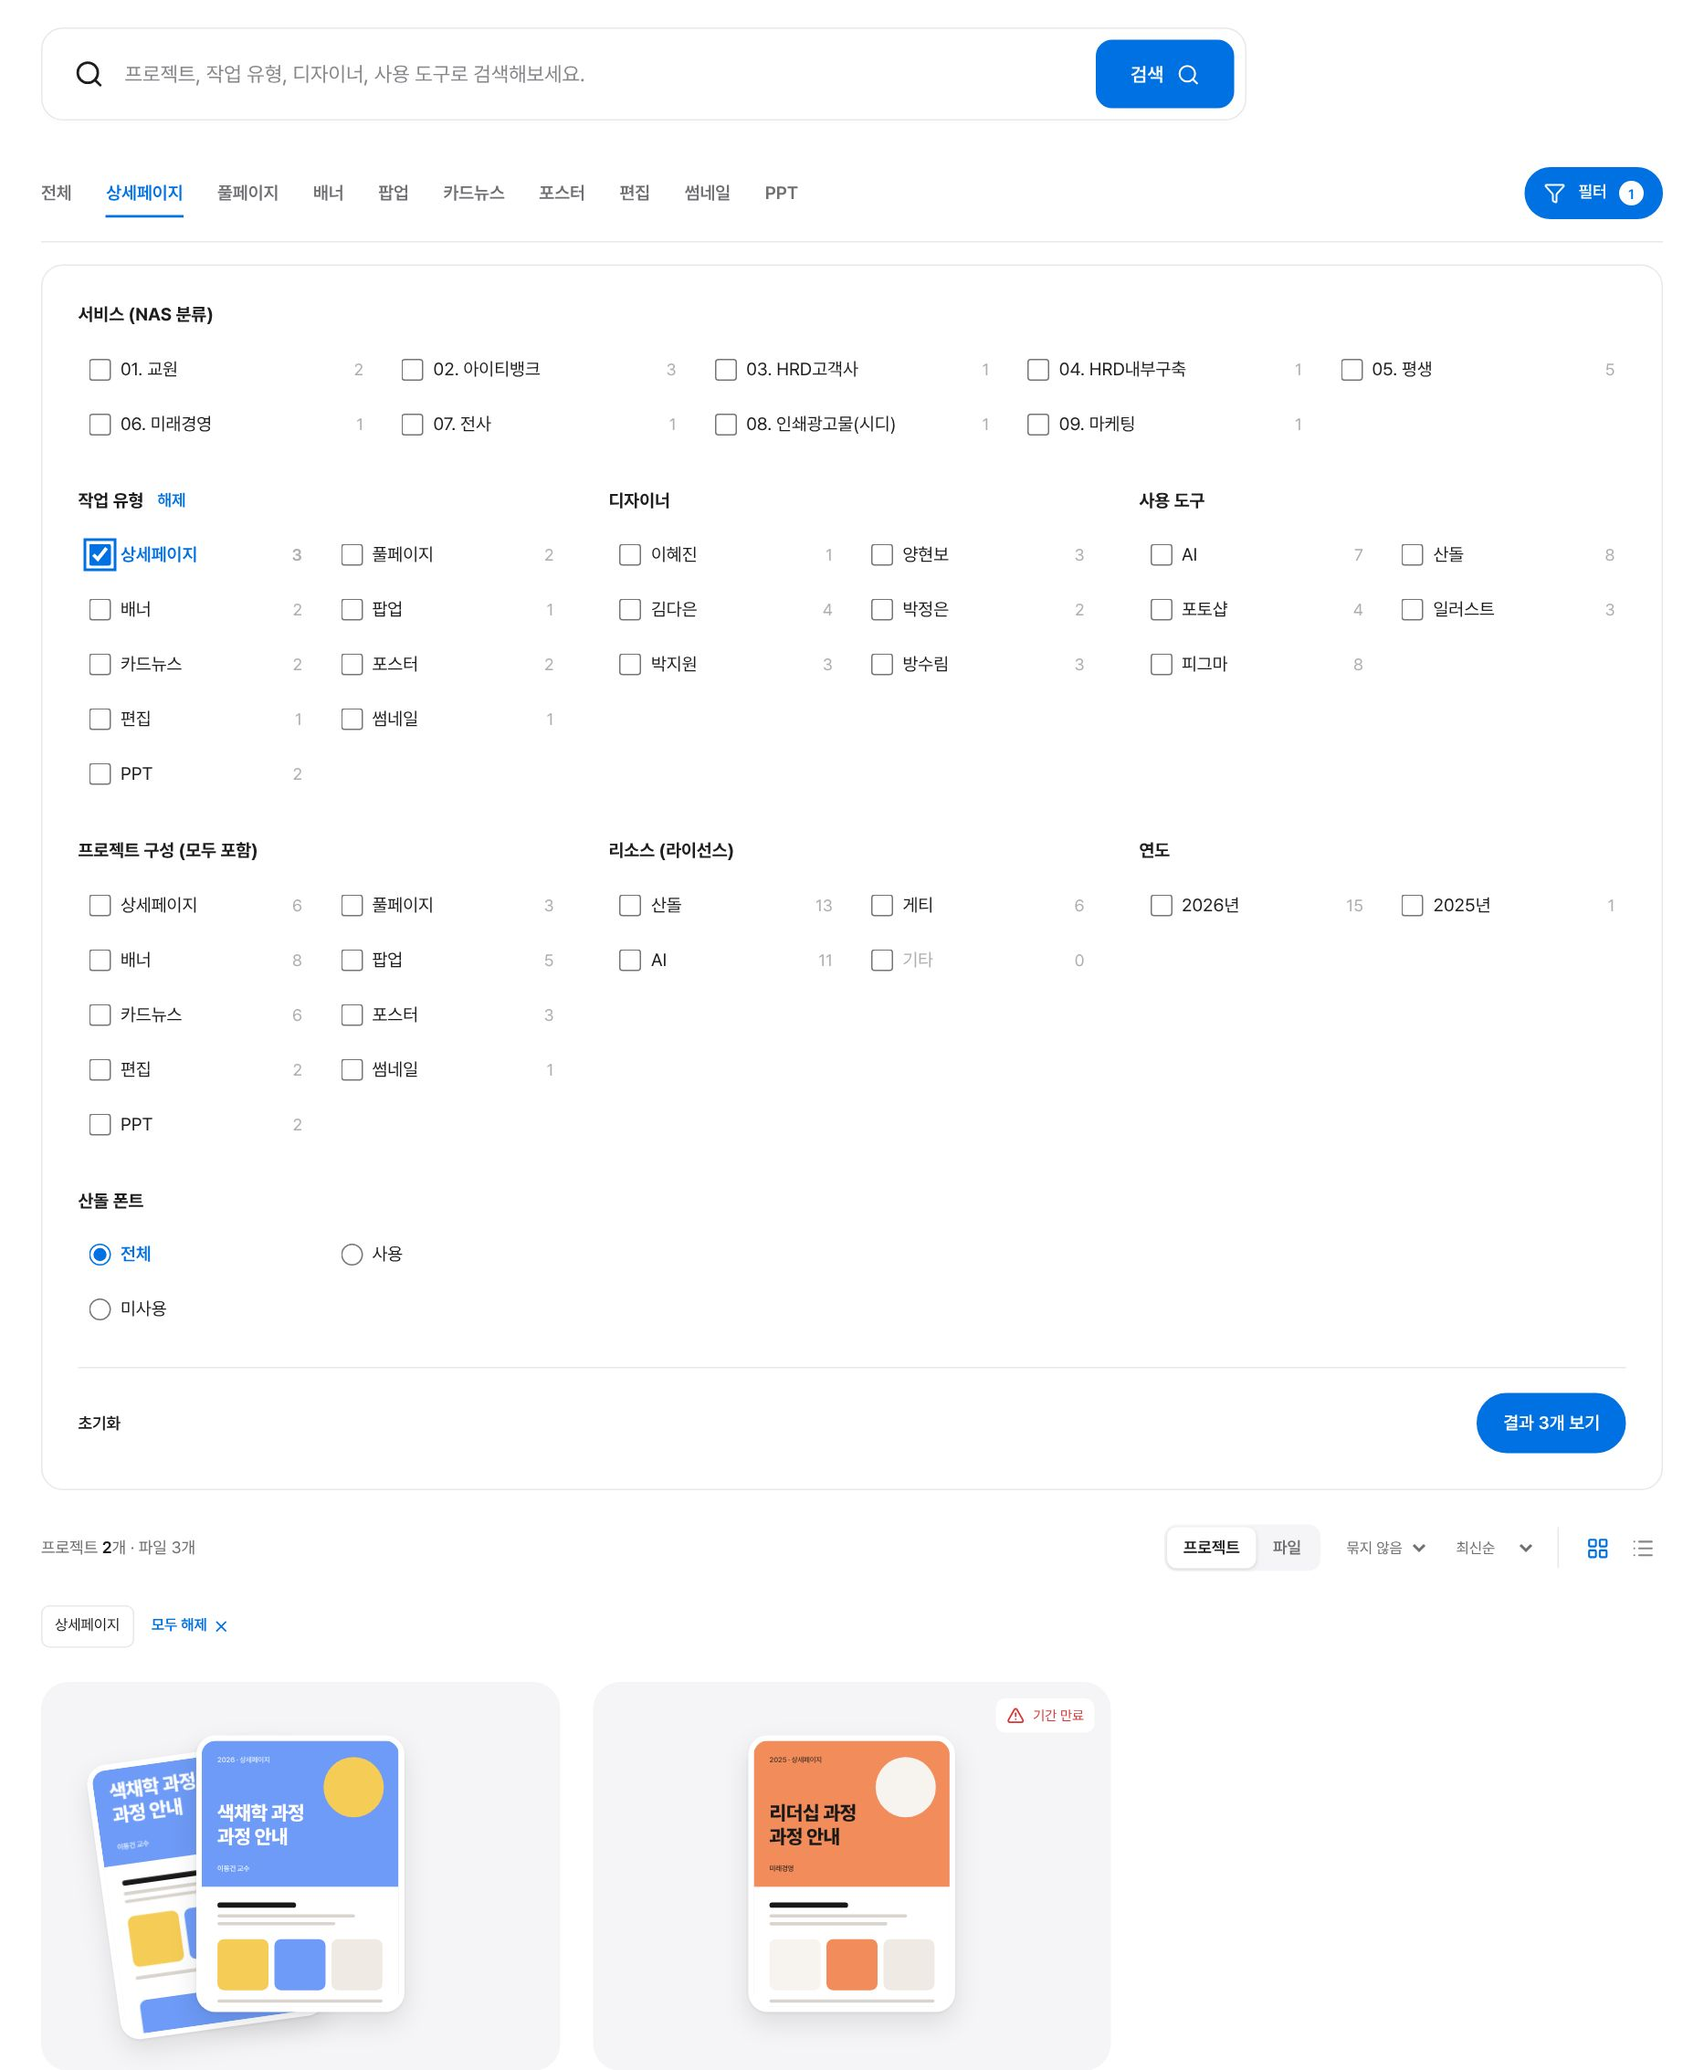
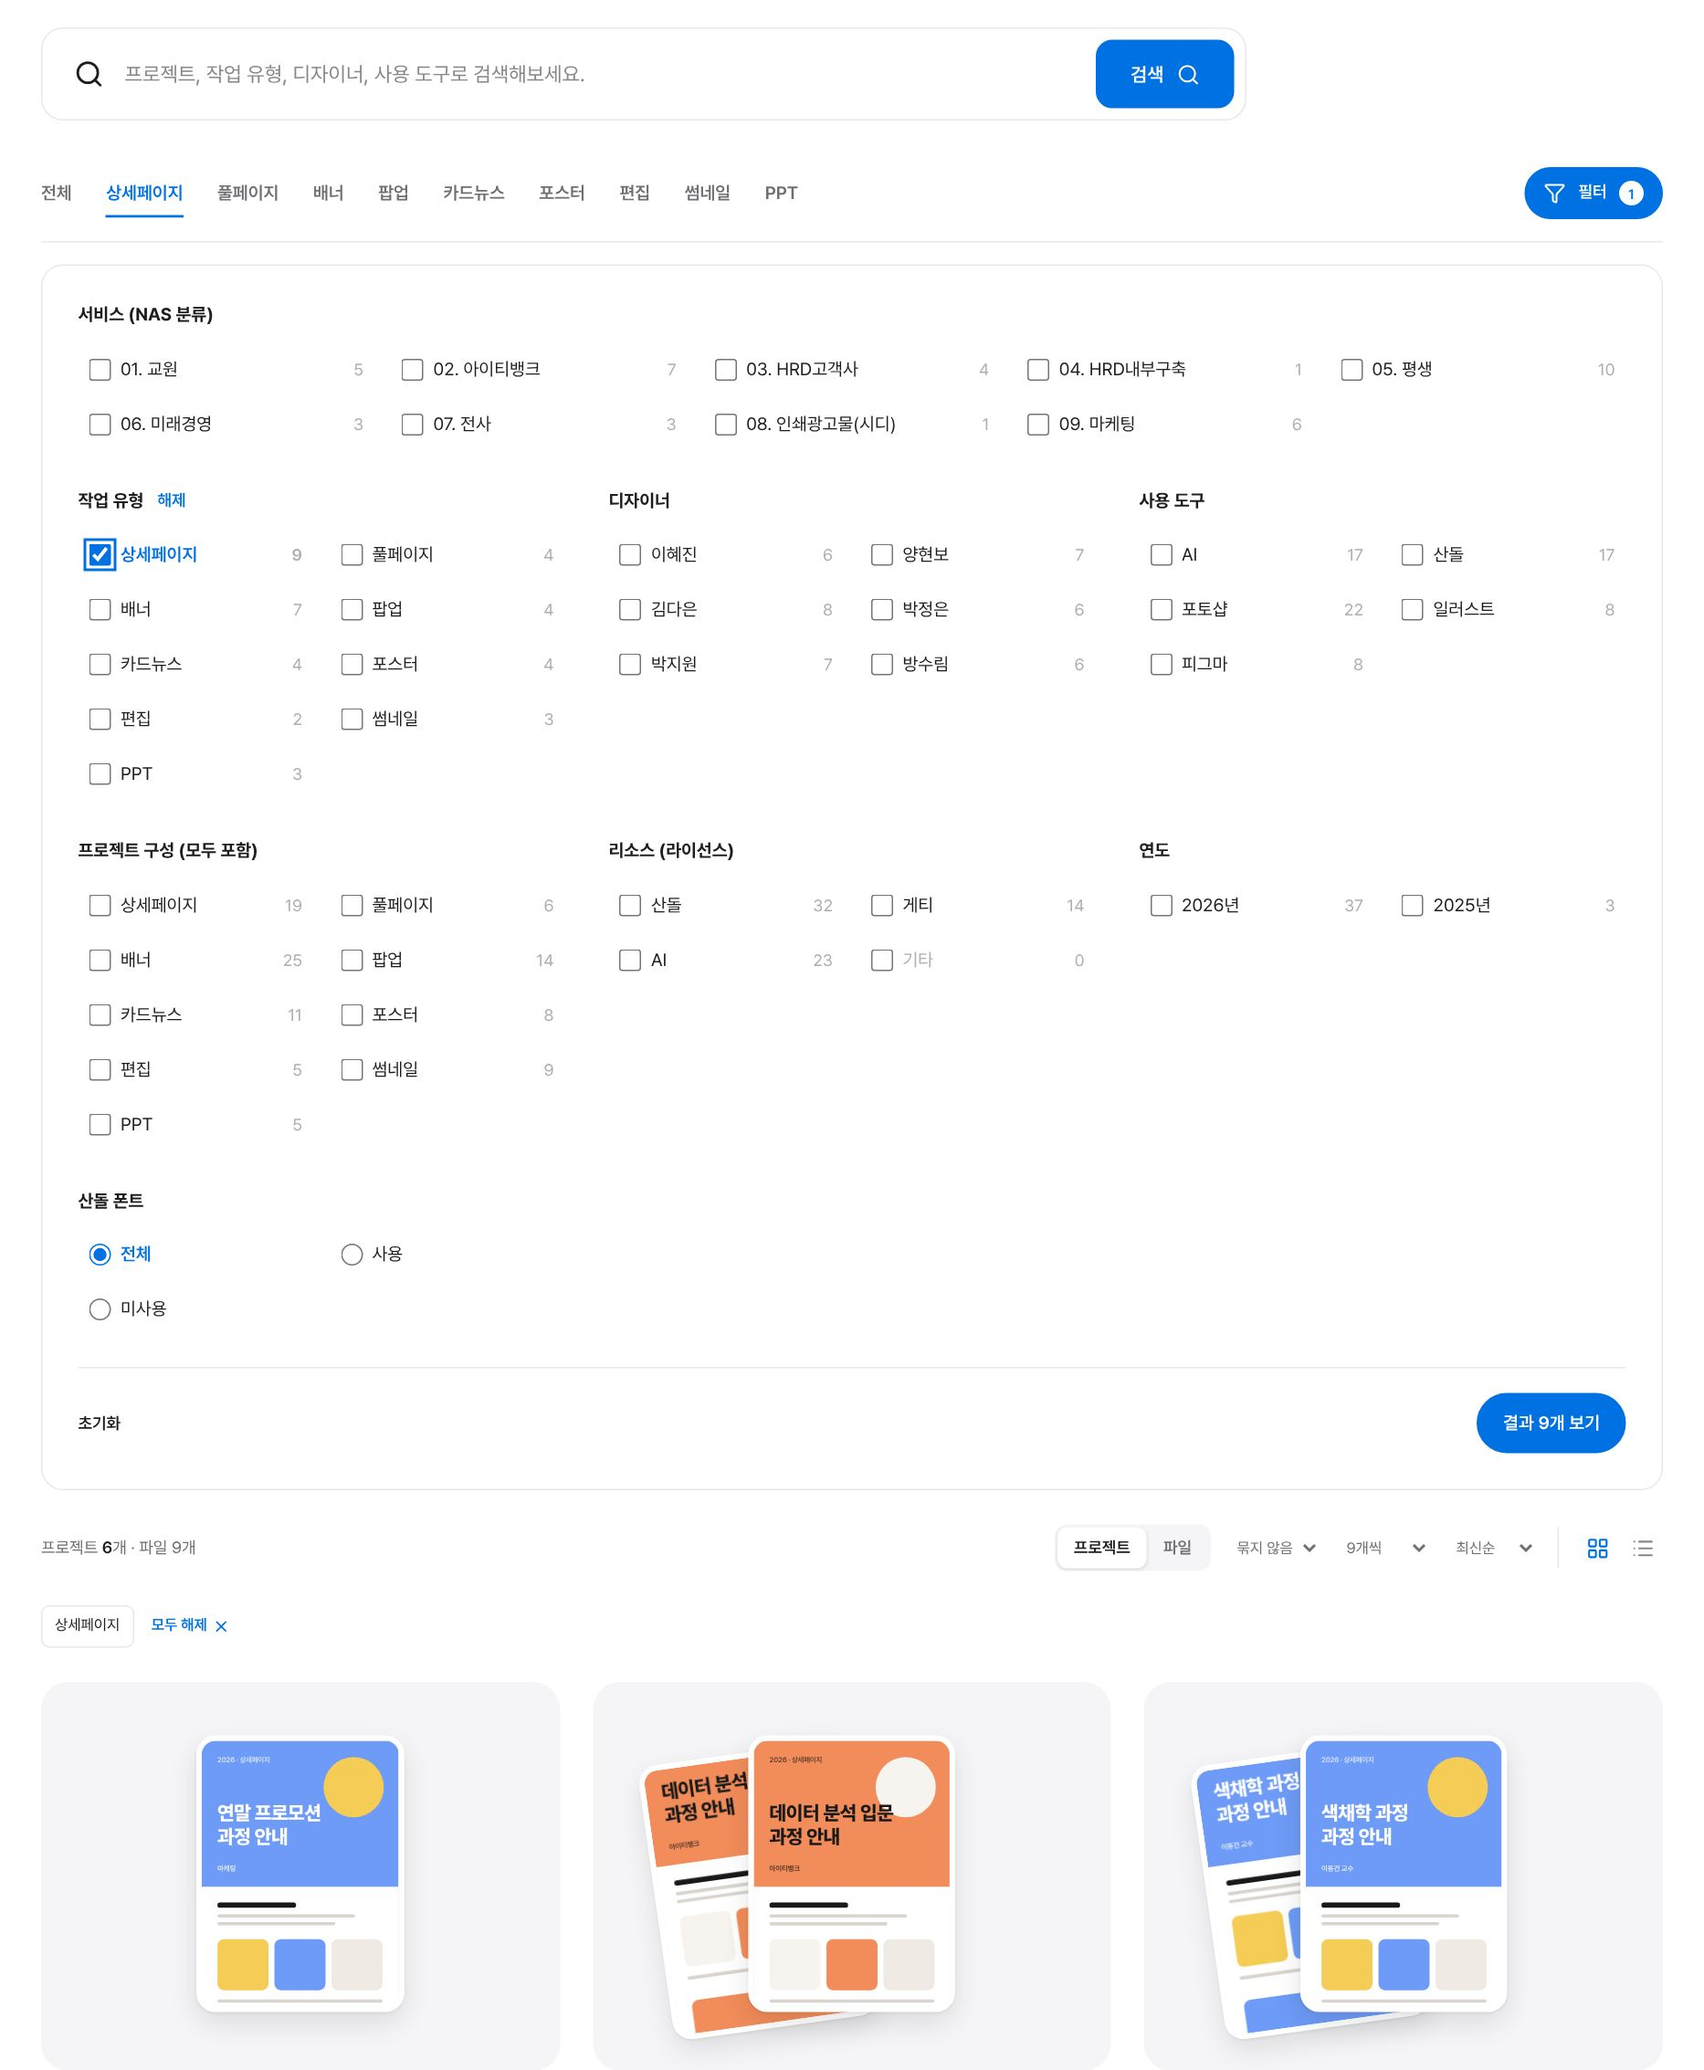
자산 찾기: 프로젝트 보기에서도 목록형 동작, 샘플 40개로 확대, 가이드 캡처 갱신
Claude-Session: https://claude.ai/code/session_01U6TCLDy9hQGKSDR5J2XYhS

diff --git a/src/data/sampleAssets.ts b/src/data/sampleAssets.ts
@@ -52,6 +52,14 @@ const P = {
   연말행사: { date: '260120', requestNo: '', name: '전사 연말 행사', resources: [], lead: '김다은' },
   지하철광고: { date: '260828', requestNo: '23310', name: '지하철 역사 광고', resources: ['게티'], lead: '박지원' },
   가을프로모션: { date: '261026', requestNo: '27702', name: '가을 프로모션', resources: ['산돌', 'AI'], lead: '박정은' },
+  데이터분석: { date: '260915', requestNo: '25118', name: '데이터 분석 입문 과정', resources: ['산돌', 'AI'], lead: '이혜진' },
+  엑셀실무: { date: '260601', requestNo: '19870', name: '엑셀 실무 과정', resources: ['산돌'], lead: '박지원' },
+  겨울특강: { date: '261201', requestNo: '28105', name: '교원 겨울 특강', resources: ['산돌', '게티'], lead: '이혜진' },
+  고객사세미나: { date: '260520', requestNo: '18342', name: 'HRD 고객사 세미나', resources: ['AI'], lead: '김다은' },
+  사내캠페인: { date: '260401', requestNo: '00000', name: '사내 안전 캠페인', resources: [], lead: '방수림' },
+  연말프로모션: { date: '261201', requestNo: '28011', name: '연말 프로모션', resources: ['산돌', 'AI', '게티'], lead: '박정은' },
+  경영자과정: { date: '260310', requestNo: '16520', name: '최고경영자 과정', resources: ['산돌'], lead: '양현보' },
+  봄학기: { date: '250303', requestNo: '11204', name: '봄학기 평생교육 과정', resources: ['산돌'], lead: '김다은' },
 } satisfies Record<string, ProjectFolder>;
 
 function make(seed: Seed): DesignAsset {
@@ -443,6 +451,96 @@ const SEEDED: DesignAsset[] = [
   }),
 ];
 
+
+/** 샘플을 넉넉하게: 프로젝트 8개, 파일 24개 추가 (모두 40개) */
+type Quick = [
+  id: number,
+  folder: ProjectFolder,
+  service: string,
+  type: AssetType,
+  device: 'PC' | 'MO' | undefined,
+  label: string | undefined,
+  title: string,
+  designer: string,
+  uploadDate: string,
+  tools: string[],
+  summary: string,
+  more?: Partial<Seed>,
+];
+const QUICK: Quick[] = [
+  [17, P.데이터분석, '02_아이티뱅크', '상세페이지', 'PC', undefined, '데이터 분석 입문 상세페이지', '이혜진', '2026-09-15', ['포토샵', 'AI', '산돌'], '파이썬·엑셀로 시작하는 데이터 분석 입문 과정 상세페이지입니다.', {
+    version: 'v02',
+    versions: [
+      { version: 'v01', uploadDate: '2026-08-28', reason: '최초 제작', originalKept: true },
+      { version: 'v02', uploadDate: '2026-09-15', reason: '문구 수정', note: '수강료 할인 문구 추가', originalKept: true },
+    ],
+  }],
+  [18, P.데이터분석, '02_아이티뱅크', '상세페이지', 'MO', undefined, '데이터 분석 입문 상세페이지', '이혜진', '2026-09-15', ['포토샵', 'AI'], '같은 과정의 모바일 상세페이지입니다.'],
+  [19, P.데이터분석, '02_아이티뱅크', '배너', 'PC', '메인', '데이터 분석 메인 배너', '이혜진', '2026-09-16', ['포토샵'], '아이티뱅크 메인 상단 배너입니다.'],
+  [20, P.데이터분석, '02_아이티뱅크', '팝업', 'MO', undefined, '데이터 분석 얼리버드 팝업', '박정은', '2026-09-20', ['포토샵', 'AI'], '얼리버드 마감 안내 모바일 팝업입니다.', {
+    licenseStatus: 'needs_review',
+    licenseNote: 'AI 생성 이미지 사용 표기 여부를 확인해야 합니다.',
+  }],
+  [21, P.엑셀실무, '05_평생', '풀페이지', 'PC', undefined, '엑셀 실무 과정 풀페이지', '박지원', '2026-06-01', ['포토샵', '산돌'], '직장인 대상 엑셀 실무 과정 모집 풀페이지입니다.', {
+    version: 'v03',
+    versions: [
+      { version: 'v01', uploadDate: '2026-05-12', reason: '최초 제작', originalKept: true },
+      { version: 'v02', uploadDate: '2026-05-26', reason: '일자 변경', note: '개강일 6월 3일 → 6월 10일', originalKept: true },
+      { version: 'v03', uploadDate: '2026-06-01', reason: '디자인 수정', note: '후기 섹션 추가', originalKept: true },
+    ],
+  }],
+  [22, P.엑셀실무, '05_평생', '풀페이지', 'MO', undefined, '엑셀 실무 과정 풀페이지', '박지원', '2026-06-01', ['포토샵'], '같은 과정의 모바일 풀페이지입니다.'],
+  [23, P.엑셀실무, '05_평생', '카드뉴스', undefined, undefined, '엑셀 단축키 카드뉴스', '방수림', '2026-06-05', ['일러스트', 'AI'], 'SNS 홍보용 엑셀 단축키 카드뉴스 5장입니다.'],
+  [24, P.겨울특강, '01_교원', '포스터', undefined, undefined, '교원 겨울 특강 포스터', '이혜진', '2026-11-02', ['일러스트', '산돌'], '학교 배포용 A3 포스터입니다.'],
+  [25, P.겨울특강, '01_교원', '편집', undefined, undefined, '교원 겨울 특강 리플렛', '이혜진', '2026-11-02', ['일러스트', '산돌'], '포스터와 함께 배포하는 2단 리플렛입니다.', {
+    licenseStatus: 'restricted',
+    licenseNote: '게티 이미지가 인쇄물 전용으로 구매되어 웹 게시 시 교체가 필요합니다.',
+  }],
+  [26, P.겨울특강, '01_교원', '배너', 'PC', undefined, '교원 겨울 특강 배너', '박정은', '2026-11-03', ['포토샵'], '연수원 홈페이지 배너입니다.'],
+  [27, P.고객사세미나, '03_HRD고객사', 'PPT', undefined, undefined, 'HRD 고객사 세미나 발표 자료', '김다은', '2026-05-20', ['AI', '산돌'], '고객사 HRD 담당자 대상 세미나 발표 자료입니다.'],
+  [28, P.고객사세미나, '03_HRD고객사', '배너', 'PC', undefined, 'HRD 세미나 신청 배너', '김다은', '2026-05-08', ['포토샵', 'AI'], '세미나 신청 페이지 배너입니다.'],
+  [29, P.고객사세미나, '03_HRD고객사', '썸네일', undefined, undefined, 'HRD 세미나 다시보기 썸네일', '박지원', '2026-05-27', ['포토샵'], '세미나 다시보기 영상 썸네일입니다.'],
+  [30, P.사내캠페인, '07_전사', '포스터', undefined, undefined, '사내 안전 캠페인 포스터', '방수림', '2026-04-01', ['일러스트'], '사무실 게시용 안전 캠페인 포스터입니다.'],
+  [31, P.사내캠페인, '07_전사', '카드뉴스', undefined, undefined, '사내 안전 수칙 카드뉴스', '방수림', '2026-04-03', ['일러스트'], '사내 메신저 공유용 안전 수칙 카드뉴스입니다.'],
+  [32, P.연말프로모션, '09_마케팅', '상세페이지', 'PC', undefined, '연말 프로모션 상세페이지', '박정은', '2026-11-04', ['포토샵', 'AI', '산돌'], '연말 전 과정 할인 프로모션 상세페이지입니다.', {
+    version: 'v02',
+    versions: [
+      { version: 'v01', uploadDate: '2026-10-28', reason: '최초 제작', originalKept: true },
+      { version: 'v02', uploadDate: '2026-11-04', reason: '문구 수정', note: '할인율 20% → 25%', originalKept: true },
+    ],
+  }],
+  [33, P.연말프로모션, '09_마케팅', '배너', 'MO', '검색광고', '연말 프로모션 검색광고 배너', '박정은', '2026-11-04', ['포토샵'], '포털 검색광고 모바일 배너입니다.'],
+  [34, P.연말프로모션, '09_마케팅', '팝업', 'PC', undefined, '연말 프로모션 팝업', '양현보', '2026-11-04', ['포토샵', 'AI'], '메인 진입 팝업입니다.'],
+  [35, P.연말프로모션, '09_마케팅', '팝업', 'MO', undefined, '연말 프로모션 팝업', '양현보', '2026-11-04', ['포토샵', 'AI'], '모바일 진입 팝업입니다.'],
+  [36, P.연말프로모션, '09_마케팅', '썸네일', undefined, undefined, '연말 프로모션 유튜브 썸네일', '박지원', '2026-11-04', ['포토샵', 'AI'], '프로모션 안내 영상 썸네일입니다.', {
+    licenseStatus: 'needs_review',
+    licenseNote: '게티 이미지 라이선스 범위(영상 썸네일)를 확인해야 합니다.',
+  }],
+  [37, P.경영자과정, '06_미래경영', '상세페이지', 'PC', undefined, '최고경영자 과정 상세페이지', '양현보', '2026-03-10', ['포토샵', '산돌'], '최고경영자 과정 모집 상세페이지입니다.'],
+  [38, P.경영자과정, '06_미래경영', '상세페이지', 'MO', undefined, '최고경영자 과정 상세페이지', '양현보', '2026-03-10', ['포토샵', '산돌'], '같은 과정의 모바일 상세페이지입니다.'],
+  [39, P.봄학기, '05_평생', '상세페이지', 'PC', undefined, '봄학기 평생교육 상세페이지', '김다은', '2025-03-03', ['포토샵', '산돌'], '2025 봄학기 평생교육 과정 안내 상세페이지입니다.'],
+  [40, P.봄학기, '05_평생', '배너', 'PC', undefined, '봄학기 평생교육 배너', '김다은', '2025-03-03', ['포토샵'], '평생교육원 메인 배너입니다.'],
+];
+const MORE: DesignAsset[] = QUICK.map(
+  ([id, folder, service, type, device, label, title, designer, uploadDate, tools, summary, more]) =>
+    make({
+      id: `asset-${id}`,
+      title,
+      service,
+      year: Number(uploadDate.slice(0, 4)),
+      folder,
+      type,
+      device,
+      label,
+      tools,
+      designer,
+      version: 'v01',
+      uploadDate,
+      summary,
+      ...more,
+    }),
+);
+
 /** 같은 프로젝트 파일들의 유형을 모아 패키지 구성으로 저장 */
 function withPackageTypes(list: DesignAsset[]): DesignAsset[] {
   const byProject = new Map<string, Set<AssetType>>();
@@ -454,7 +552,7 @@ function withPackageTypes(list: DesignAsset[]): DesignAsset[] {
   return list.map((a) => ({ ...a, packageTypes: [...byProject.get(key(a))!] }));
 }
 
-export const INITIAL_ASSETS: DesignAsset[] = withPackageTypes(SEEDED);
+export const INITIAL_ASSETS: DesignAsset[] = withPackageTypes([...SEEDED, ...MORE]);
 
 export const INITIAL_SAN_DOLL_FONTS: SandollFontItem[] = [
   {

diff --git a/src/index.css b/src/index.css
@@ -7487,3 +7487,56 @@ button.version-line {
 .results-toolbar {
   scroll-margin-top: 20px;
 }
+
+/* 자산 찾기: 프로젝트 목록형 */
+.project-list {
+  border-top: 1px solid var(--line);
+}
+.project-list .project-item {
+  display: flex;
+  align-items: center;
+  gap: 22px;
+  padding: 16px 0;
+  border-bottom: 1px solid var(--line);
+}
+.project-list .project-cover {
+  flex: 0 0 auto;
+  width: 150px;
+  border-radius: 14px;
+}
+.project-list .project-cover-card {
+  top: 10%;
+  border-radius: 8px;
+  padding: 2px;
+}
+.project-list .project-cover-card .design-thumbnail {
+  border-radius: 6px;
+}
+.project-list .image-status {
+  top: 5px;
+  right: 5px;
+}
+.project-list .image-status .status {
+  font-size: 9px;
+  padding: 3px 5px;
+}
+.project-list .project-caption {
+  flex: 1;
+  min-width: 0;
+  padding: 0;
+}
+.project-list .asset-title {
+  font-size: 16px;
+  margin: 2px 0 4px;
+}
+.project-list-meta {
+  margin: 0 0 6px;
+}
+@media (max-width: 600px) {
+  .project-list .project-cover {
+    width: 104px;
+  }
+  .project-list .project-item {
+    gap: 14px;
+  }
+}

diff --git a/src/views/SearchView.tsx b/src/views/SearchView.tsx
@@ -654,7 +654,7 @@ export const SearchView: React.FC<SearchViewProps> = ({
                 <span>{sec.total}</span>
               </h2>
             )}
-            <div className="project-grid">
+            <div className={viewMode === "grid" ? "project-grid" : "project-list"}>
               {sec.items.map((p) => (
                 <article key={p.key} className="project-item">
                   <button
@@ -681,6 +681,11 @@ export const SearchView: React.FC<SearchViewProps> = ({
                     <button className="asset-title" onClick={() => onSelectProject?.(p.key)}>
                       {highlightText(p.project, searchQuery)}
                     </button>
+                    {viewMode === "list" && (
+                      <p className="asset-meta project-list-meta">
+                        {p.designers.join(", ")} · 최근 수정 {p.latestDate}
+                      </p>
+                    )}
                     <p className="project-types">
                       {typeSummary(p.files).map((t) => (
                         <span key={t}>{t}</span>

diff --git a/scripts/check-views.tsx b/scripts/check-views.tsx
@@ -45,6 +45,7 @@ assert.equal(
   assets.length,
   "All original samples remain searchable",
 );
+assert.equal(assets.length, 40, "40 sample files");
 assert.equal(renderedCount(search("")), 9, "Results are paged 9 per page by default");
 assert.ok(search("").includes('class="pager"'), "Pager shows when results exceed one page");
 assert.equal(
@@ -237,5 +238,5 @@ assert.ok(uploadHtml.includes("NAS 프로젝트 폴더"), "Upload asks for the N
 }
 
 console.log(
-  "PASS: search, 7 views, 16 samples, naming rule + legacy names, folder landing, services, NAS path, PC/MO, versions, AI news, paging",
+  "PASS: search, 7 views, 40 samples, naming rule + legacy names, folder landing, services, NAS path, PC/MO, versions, AI news, paging",
 );
